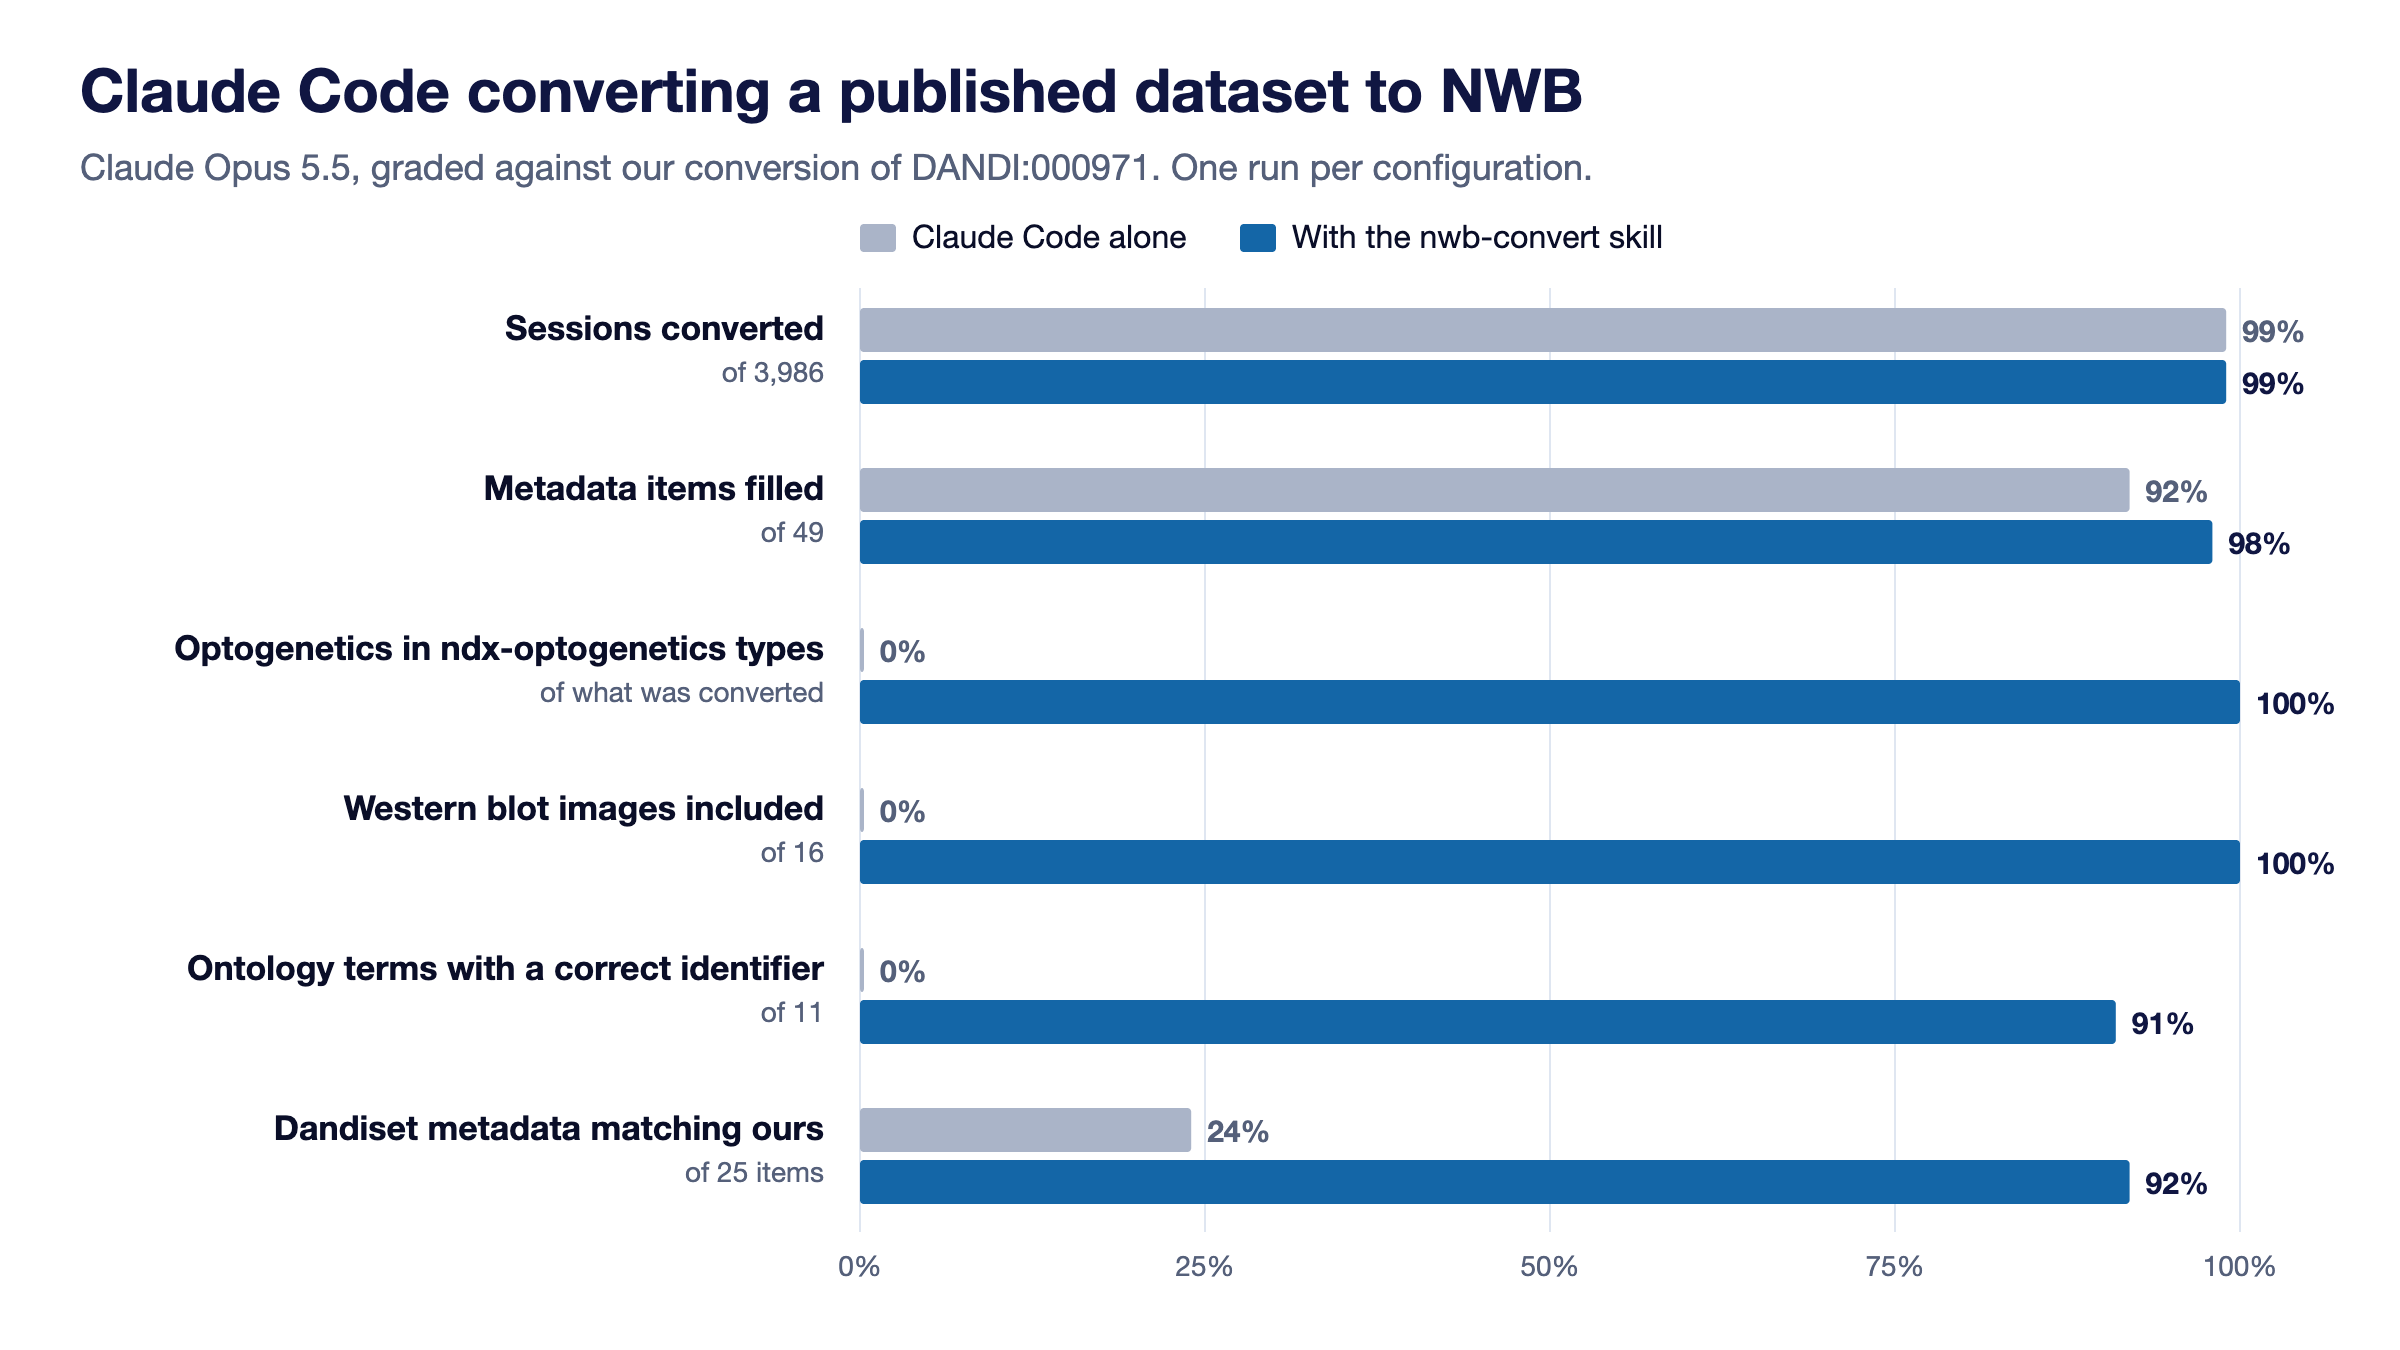
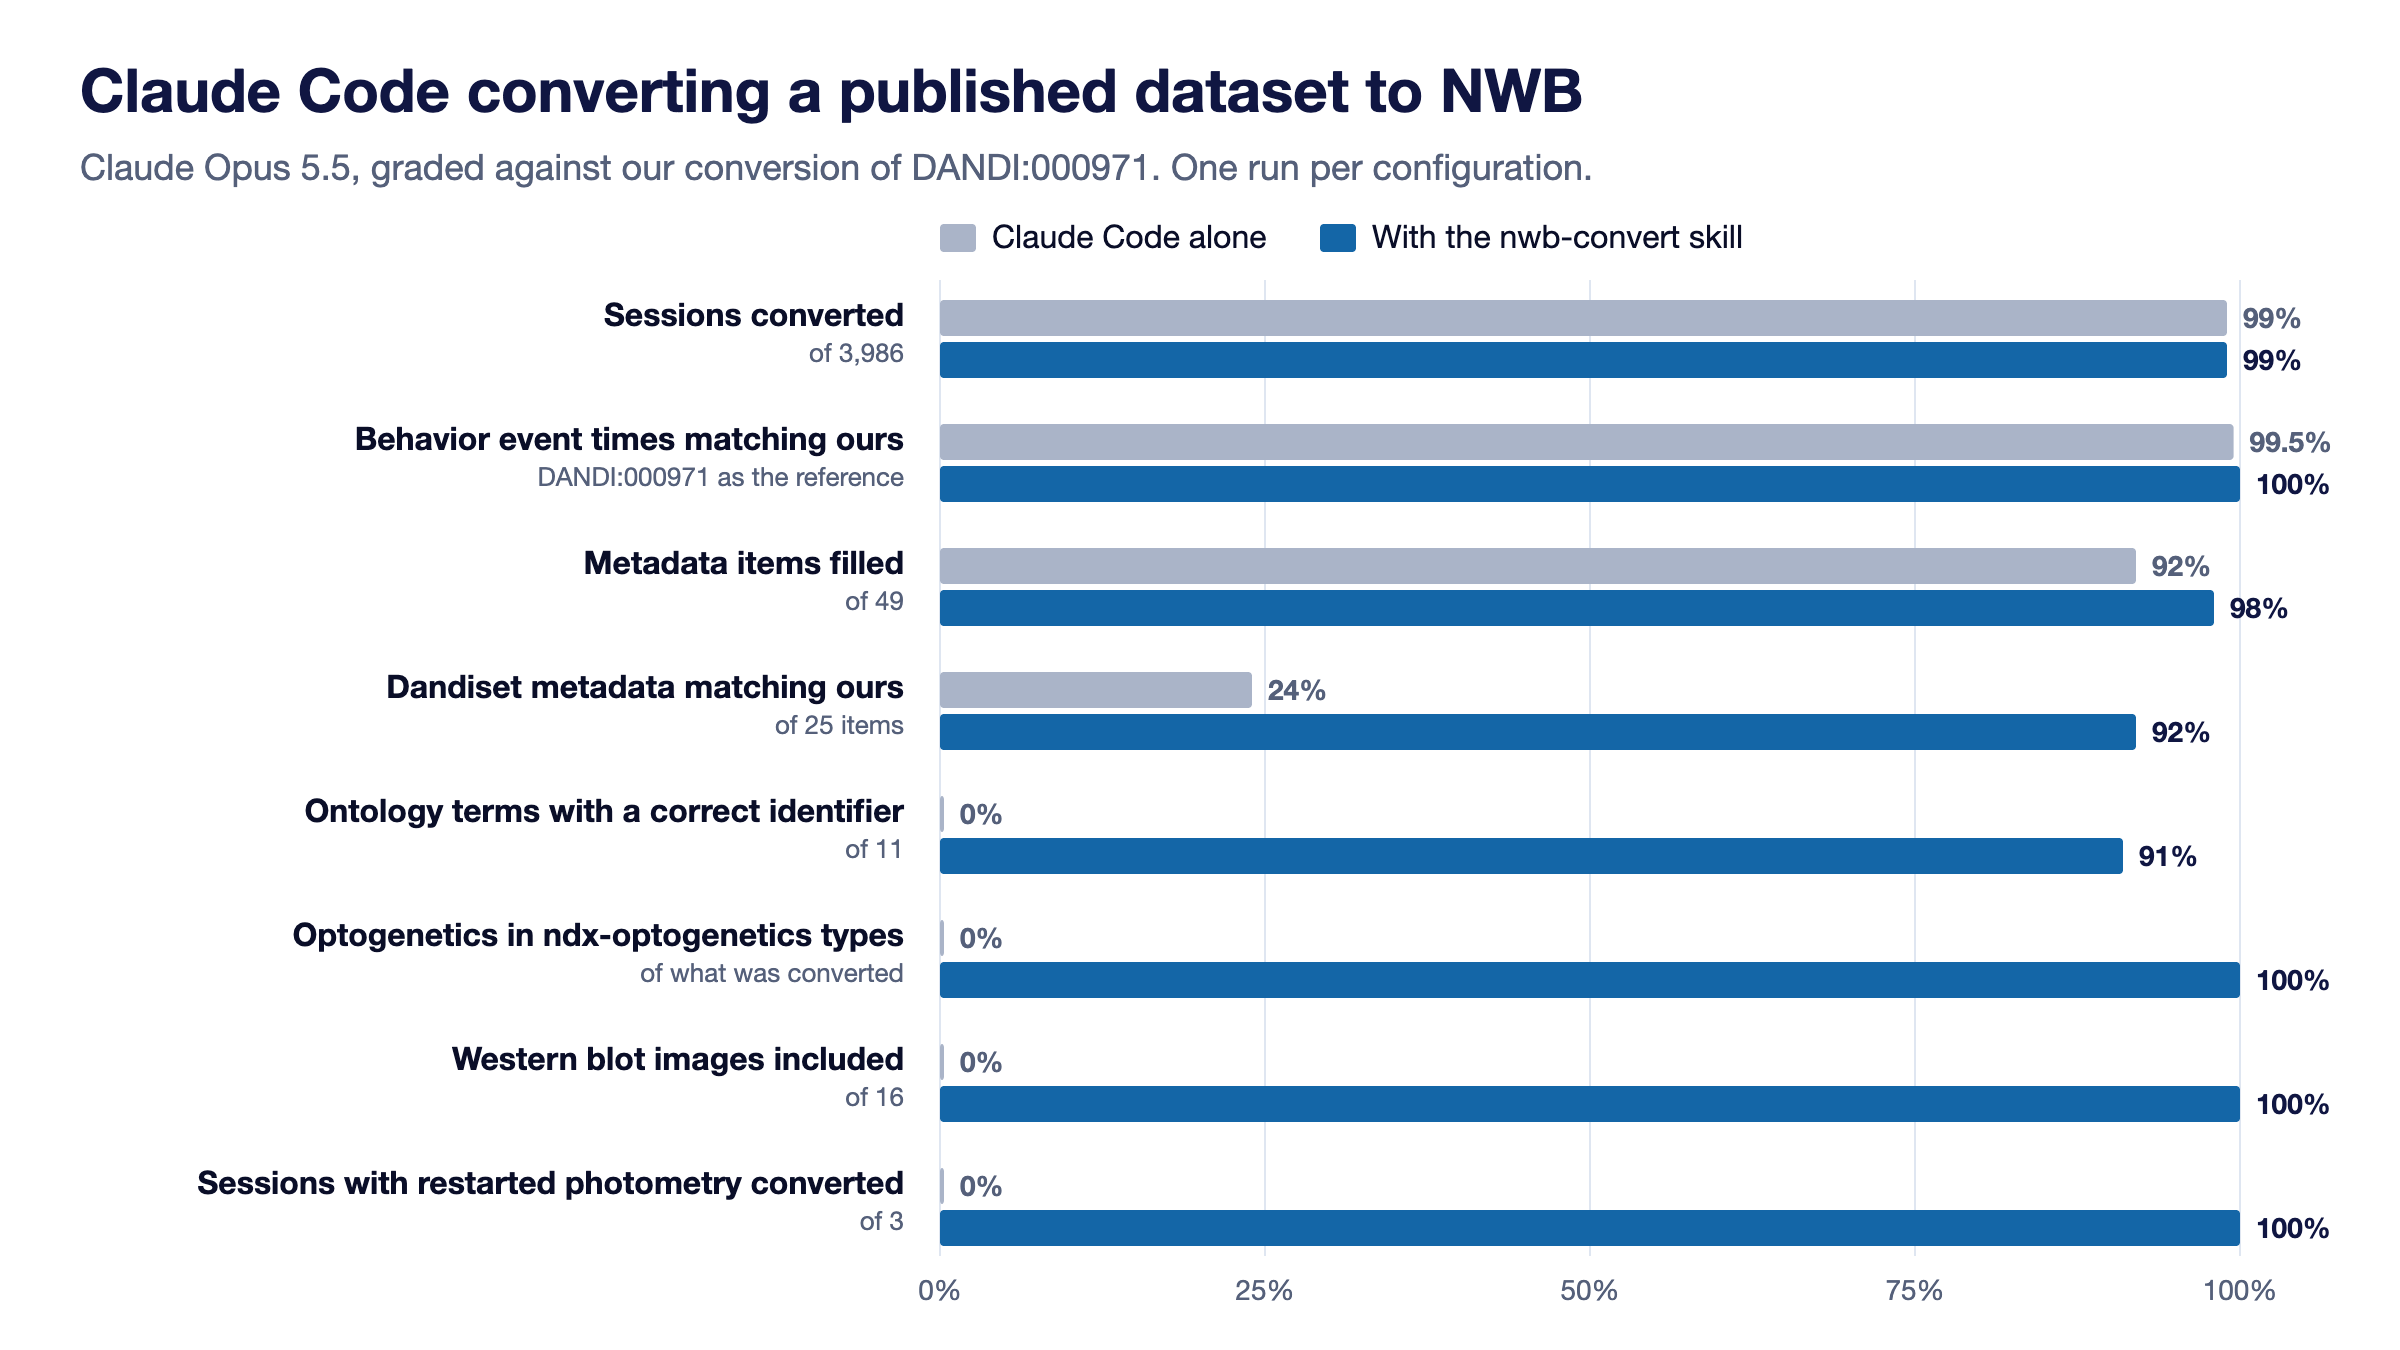
Address review of the nwb-convert post
Show every highlighted benchmark measure in the chart and drop the table
that overlapped with it. Clarify the advice on answering the agent's
questions, remove the pointer to the reanalysis skill, and credit the
Lerner Lab.

diff --git a/scripts/nwb-convert-skill-figure.py b/scripts/nwb-convert-skill-figure.py
@@ -3,17 +3,19 @@ import sys
 
 rows = [
     ("Sessions converted", "of 3,986", 99, 99),
+    ("Behavior event times matching ours", "DANDI:000971 as the reference", 99.5, 100),
     ("Metadata items filled", "of 49", 92, 98),
+    ("Dandiset metadata matching ours", "of 25 items", 24, 92),
+    ("Ontology terms with a correct identifier", "of 11", 0, 91),
     ("Optogenetics in ndx-optogenetics types", "of what was converted", 0, 100),
     ("Western blot images included", "of 16", 0, 100),
-    ("Ontology terms with a correct identifier", "of 11", 0, 91),
-    ("Dandiset metadata matching ours", "of 25 items", 24, 92),
+    ("Sessions with restarted photometry converted", "of 3", 0, 100),
 ]
 NAVY, BLUE, GREY, INK, MUTED, LINE = "#101642", "#1466a7", "#aab4c8", "#0a0e28", "#55607a", "#dfe6f1"
 W, H = 1200, 675
-left, right, top = 430, 80, 150
+left, right, top = 470, 80, 146
 plot_w = W - left - right
-row_h, bar_h, gap = 80, 22, 4
+row_h, bar_h, gap = 62, 18, 3
 font = "Inter, 'Helvetica Neue', Arial, sans-serif"
 
 out = [f'<svg xmlns="http://www.w3.org/2000/svg" viewBox="0 0 {W} {H}" width="{W}" height="{H}" font-family="{font}" role="img" aria-label="Benchmark results for Claude Opus 5.5 with and without the nwb-convert skill">']
@@ -30,12 +32,12 @@ for tick in (0, 25, 50, 75, 100):
     out.append(f'<text x="{x:.1f}" y="{top + row_h*len(rows) + 8}" font-size="14" fill="{MUTED}" text-anchor="middle">{tick}%</text>')
 for i, (label, sub, vanilla, skill) in enumerate(rows):
     y = top + i * row_h
-    out.append(f'<text x="{left-18}" y="{y+20}" font-size="17" font-weight="600" fill="{INK}" text-anchor="end">{label}</text>')
-    out.append(f'<text x="{left-18}" y="{y+41}" font-size="14" fill="{MUTED}" text-anchor="end">{sub}</text>')
+    out.append(f'<text x="{left-18}" y="{y+17}" font-size="16" font-weight="600" fill="{INK}" text-anchor="end">{label}</text>')
+    out.append(f'<text x="{left-18}" y="{y+35}" font-size="13" fill="{MUTED}" text-anchor="end">{sub}</text>')
     for j, (value, colour) in enumerate(((vanilla, GREY), (skill, BLUE))):
         by = y + 4 + j * (bar_h + gap)
         bw = max(plot_w * value / 100, 2)
         out.append(f'<rect x="{left}" y="{by}" width="{bw:.1f}" height="{bar_h}" rx="2" fill="{colour}"/>')
-        out.append(f'<text x="{left + bw + 8:.1f}" y="{by+17}" font-size="15" font-weight="600" fill="{NAVY if j else MUTED}">{value}%</text>')
+        out.append(f'<text x="{left + bw + 8:.1f}" y="{by+14}" font-size="14" font-weight="600" fill="{NAVY if j else MUTED}">{value:g}%</text>')
 out.append('</svg>')
 open(sys.argv[1], "w").write("\n".join(out) + "\n")

diff --git a/src/content/blog/nwb-convert-skill.md b/src/content/blog/nwb-convert-skill.md
@@ -50,7 +50,7 @@ Three things help the agent do a better job:
 
 - **Give it all of the data.** That means the raw acquisition files, the results of processing such as spike sorting, segmentation and pose estimation, and any files with tables of metadata about the sessions, subjects and instruments.
 - **Give it the paper or a methods draft.** Many of the details NWB asks for are already written there.
-- **Answer its questions as you would answer a new lab member.** "I don't know" is a useful answer, and the agent records it.
+- **Tell it when you do not know.** The agent will ask about details the files do not contain. If you do not know an answer, say so. It will leave the field out, or mark its best estimate as inferred, and will not make up a value.
 
 Claude Code also runs in the [Claude desktop app](https://code.claude.com/docs/en/desktop), for people who prefer not to use a terminal.
 
@@ -81,20 +81,9 @@ We wanted to know how close the agent gets to our own work, so we had it repeat 
 
 ## Results
 
-![Benchmark results for Claude Opus 5.5 with and without the nwb-convert skill, across six measures](/images/blog/nwb-convert-skill-results.svg)
+![Benchmark results for Claude Opus 5.5, for Claude Code alone and with the nwb-convert skill. Sessions converted, of 3,986: 99% and 99%. Behavior event times matching our conversion: 99.5% and 100%. Metadata items filled, of 49: 92% and 98%. Dandiset metadata items matching ours, of 25: 24% and 92%. Ontology terms with a correct identifier, of 11: 0% and 91%. Optogenetics stored in ndx-optogenetics types: 0% and 100%. Western blot images included, of 16: 0% and 100%. Sessions with restarted photometry converted, of 3: 0% and 100%.](/images/blog/nwb-convert-skill-results.svg)
 
-| Claude Opus 5.5 | Claude Code alone | With the skill |
-|---|---|---|
-| Sessions converted (of 3,986) | 99% | 99% |
-| Behavior event times matching our conversion | 99.5% | 100% |
-| NWB Inspector critical issues and violations | 0 | 0 |
-| Metadata items filled (of 49) | 92% | 98% |
-| Optogenetics stored in ndx-optogenetics types | 0% | 100% |
-| Ontology terms with a correct identifier (of 11) | 0% | 91% |
-| Dandiset metadata items matching ours (of 25) | 24% | 92% |
-| Western blot images included (of 16) | 0% | 100% |
-| Sessions with restarted photometry converted (of 3) | 0 | 3 |
-| Example notebook written | no | yes |
+Both runs passed NWB Inspector with no critical issues and no best-practice violations.
 
 An AI agent can now convert a complex dataset nearly perfectly from a single prompt. Claude Code alone converted the data correctly but missed recent additions to the NWB ecosystem. With the skill and its maintained instructions, the agent produced a conversion close to the one we delivered ourselves, with ontology identifiers, detailed Dandiset metadata and the preferred neurodata types.
 
@@ -140,9 +129,8 @@ Review notebooks check each data stream against the lab's source files and again
 We are now testing other models and other agent tools with the same skill. Many are much cheaper than Claude Opus, and we will report which configurations reach similar results at the lowest cost.
 
 The skill is free, open source and ready to use today, so try it on your own data. We would like to hear how it went. Please [open an issue](https://github.com/catalystneuro/claude-skills/issues) with what worked and what did not. If you would like our help with a conversion, [get in touch](/contact/).
-
-The [same repository](https://github.com/catalystneuro/claude-skills) has a second skill from the poster, analyzing-dandi-datasets, which takes a scientific question, finds a Dandiset to answer it, and delivers a notebook. The [example reanalyses](https://github.com/catalystneuro/dandi-reanalysis-examples) show its output.
-
 ## Credits
 
 Paul Adkisson-Floro built the benchmark and presented this work at SfN 2026 as poster PSTR339.15, with Szonja Weigl, Alessandra Trapani, Luiz Tauffer, Heberto Mayorquin, Eivind Hennestad and Ben Dichter. The figures of the skill and the notebooks come from [the poster](/nwb-convert-sfn2026-poster.pdf).
+
+We thank the Lerner Lab at Northwestern University for collecting, analyzing and publishing the data behind the benchmark ([Seiler et al., 2022](https://doi.org/10.1016/j.cub.2022.01.055)).
